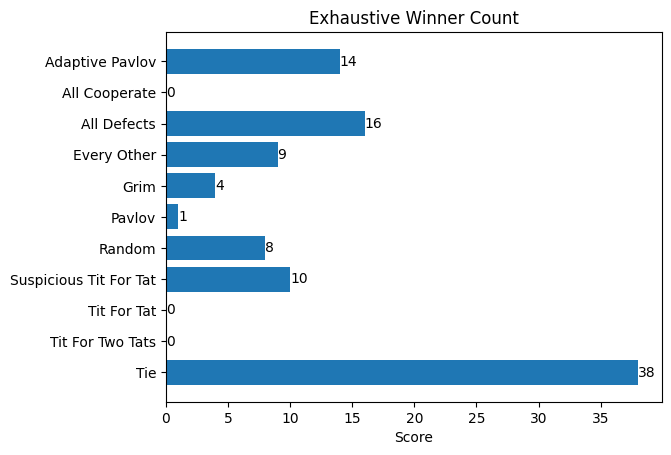
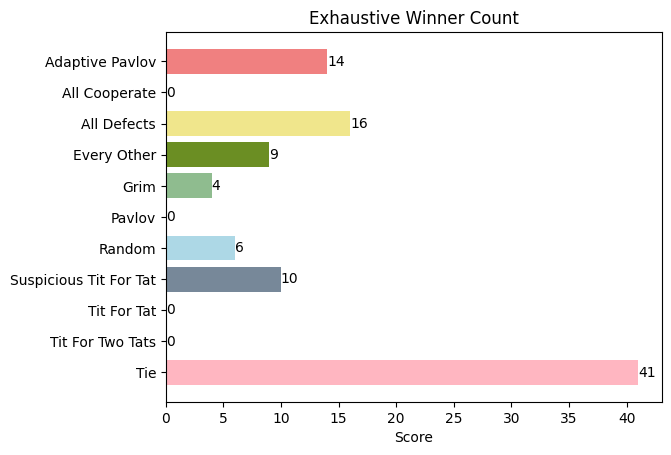
Nice Graphs

diff --git a/Optimizations/exhaustive.py b/Optimizations/exhaustive.py
@@ -107,14 +107,14 @@ def rankWinners(results):
                 tie_count += 1
 
         x = [ap_count, ac_count, ad_count, eo_count, g_count, p_count, r_count, st4t_count, t4t_count, t4tt_count, tie_count]
-
+        colors = ['lightcoral', 'sandybrown', 'khaki', 'olivedrab', 'darkseagreen', 'lightseagreen', 'lightblue', 'lightslategrey', 'cornflowerblue', 'plum', 'lightpink']
         plt.rcdefaults()
         fig, ax = plt.subplots()
 
         # Example data
         y_pos = np.arange(len(y))
 
-        bars = ax.barh(y_pos, x, align='center')
+        bars = ax.barh(y_pos, x, align='center', color= colors)
         ax.set_yticks(y_pos, labels=y)
         ax.bar_label(bars)
         ax.invert_yaxis()  # labels read top-to-bottom
